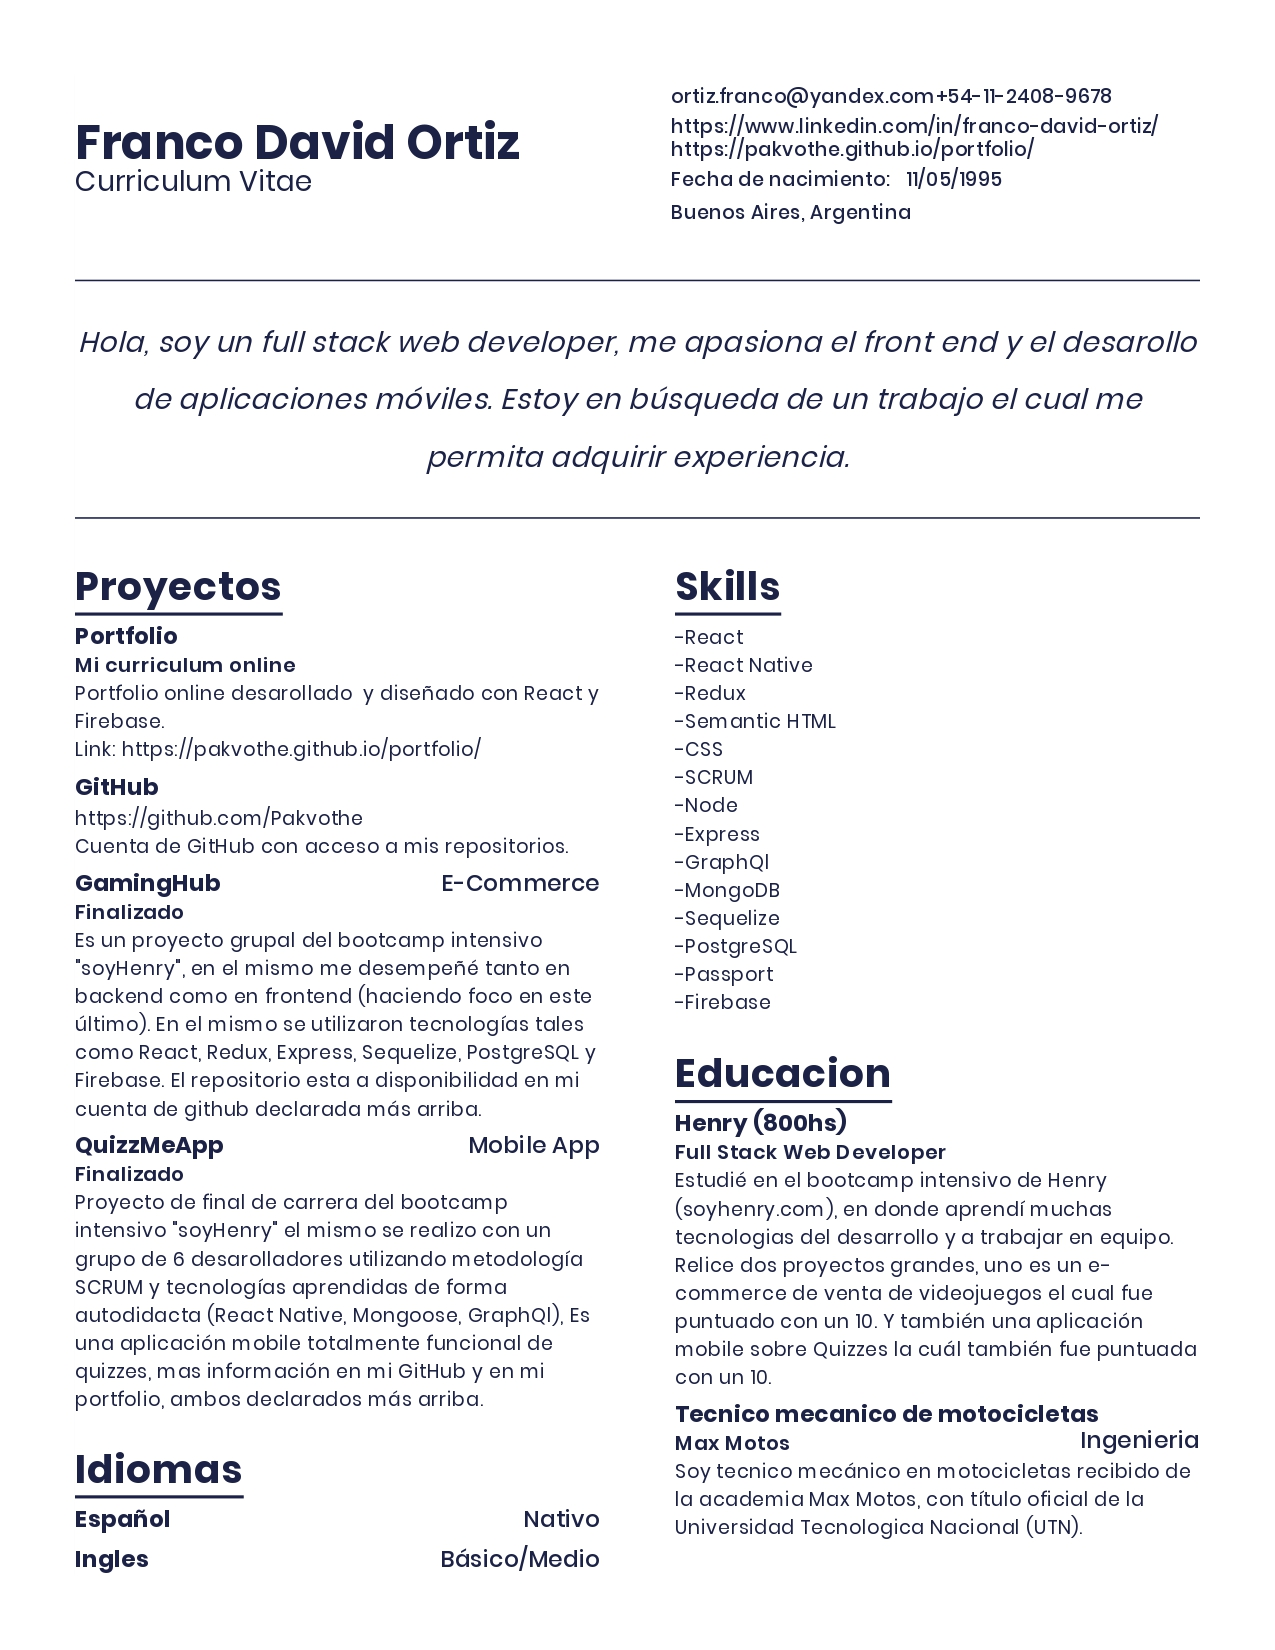
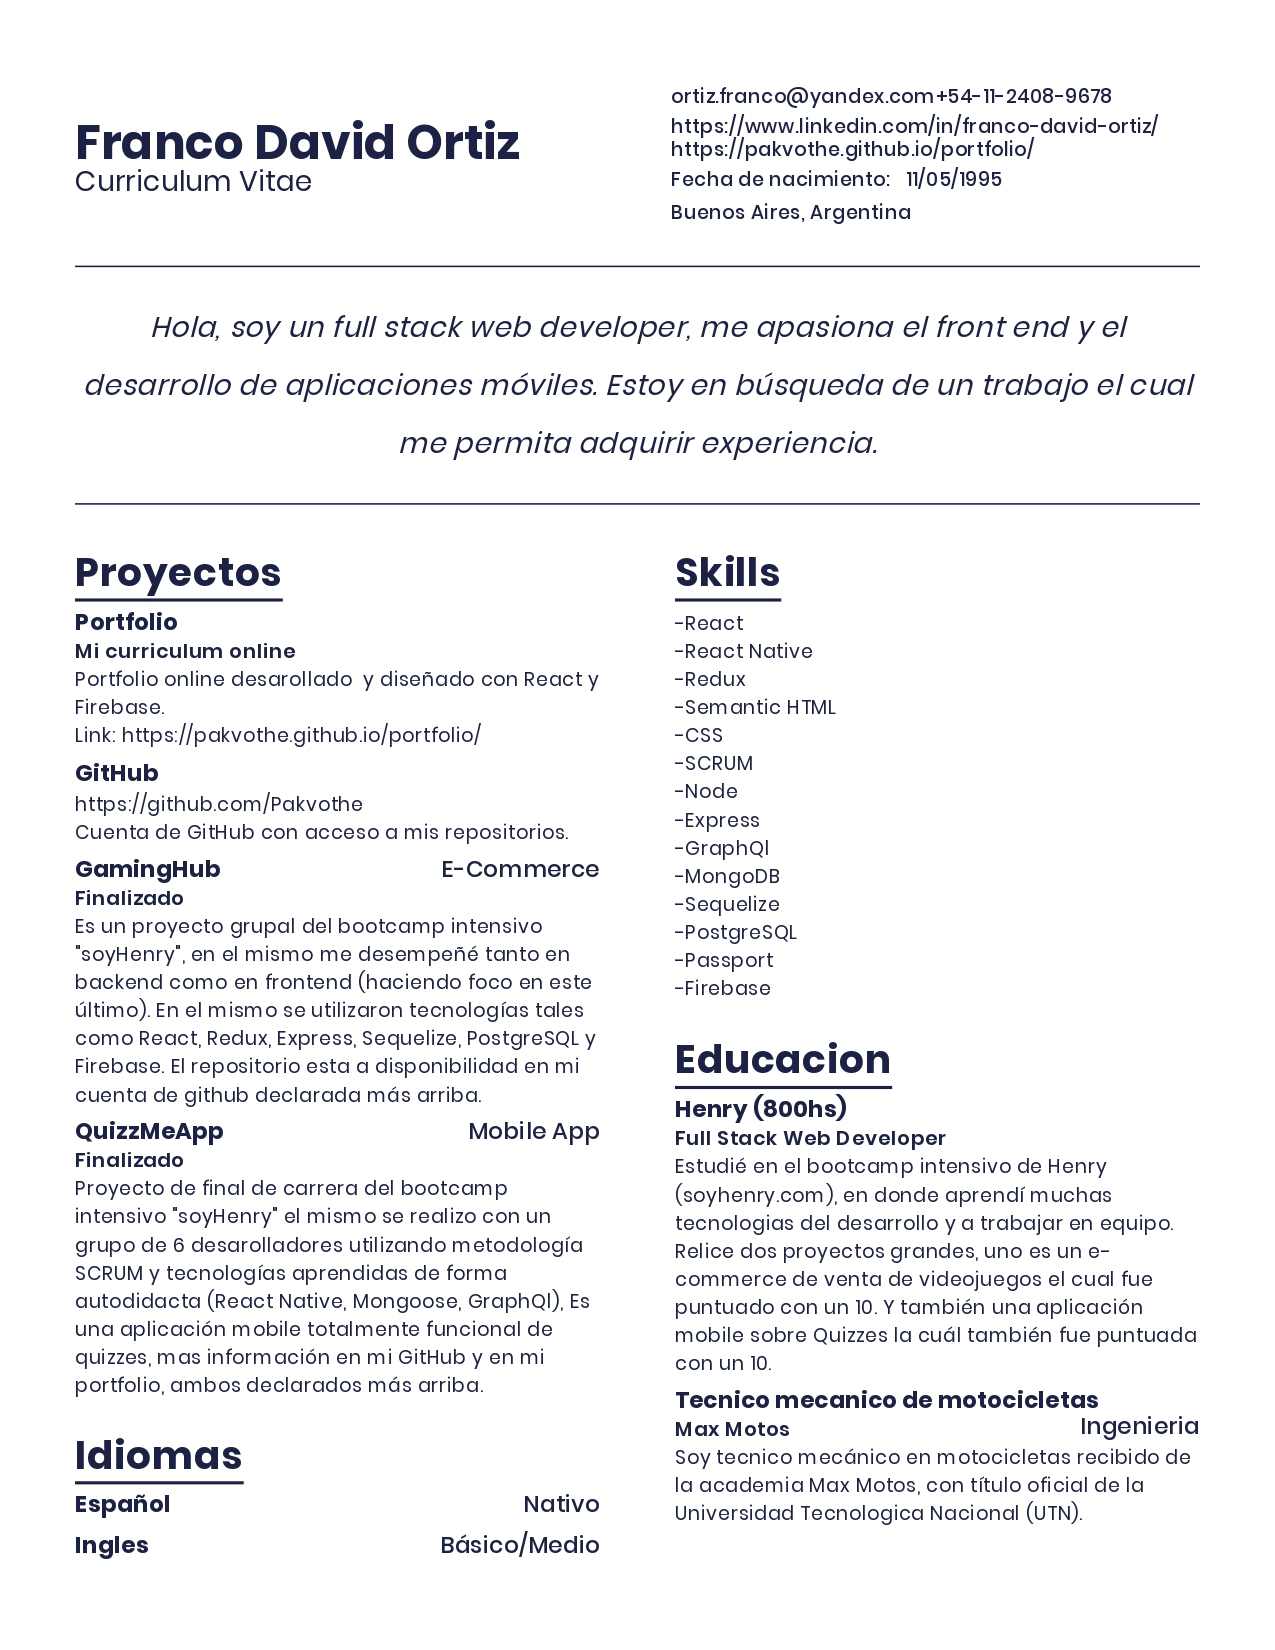
fixed ES resume and background strings

diff --git a/src/components/background/strings.js b/src/components/background/strings.js
@@ -2,7 +2,7 @@ const strings = {
 	en: {
 		title: 'Background',
 		p1:
-			"I am currently a web developer Fullstack (PERN stack) and I am in search of my first job in the IT world. Recently graduated from the bootcamp 'soyHenry' (800hs) after months of dedication.",
+			"I am a fullstack web developer, with preference to Front-End and mobile development. I am looking for a job which allows me to gain experience. Recently graduated from the 'soyHenry' bootcamp (800hs) after months of dedication.",
 		p2:
 			"As a developer I enjoy constantly learn new technologies and improve the already learned. I like the challenges that leave me out of my comfort zone and the satisfaction of achieving them. My passion is to create interfaces polished and beautiful for the end consumer, so I'm a frontend developer oriented.",
 		p3:
@@ -12,7 +12,7 @@ const strings = {
 	es: {
 		title: 'Trasfondo',
 		p1:
-			"Actualmente soy un desarrollador web fullstack (PERN stack) y me encuentro en busqueda de mi primer trabajo en el mundo del IT. Recientemente graduado del bootcamp 'soyHenry' (800hs) despues de meses de dedicación.",
+			"Soy un desarrollador web fullstack, con preferencia al Front-End y al desarrollo mobile. Me encuentro en busqueda de un trabajo el cual me permita adquirir experiencia. Recientemente graduado del bootcamp 'soyHenry' (800hs) despues de meses de dedicación.",
 		p2:
 			'Como desarrollador disfruto de aprender constantemente tecnologias nuevas y perfeccionar las ya aprendidas. Me gustan los desafios que me hacen salir de mi zona de confort y la satisfaccion de concretarlos. Mi pasion es crear interfaces pulidas y bellas para el consumidor final, por lo que soy un desarrollador orientado al frontend.',
 		p3:
